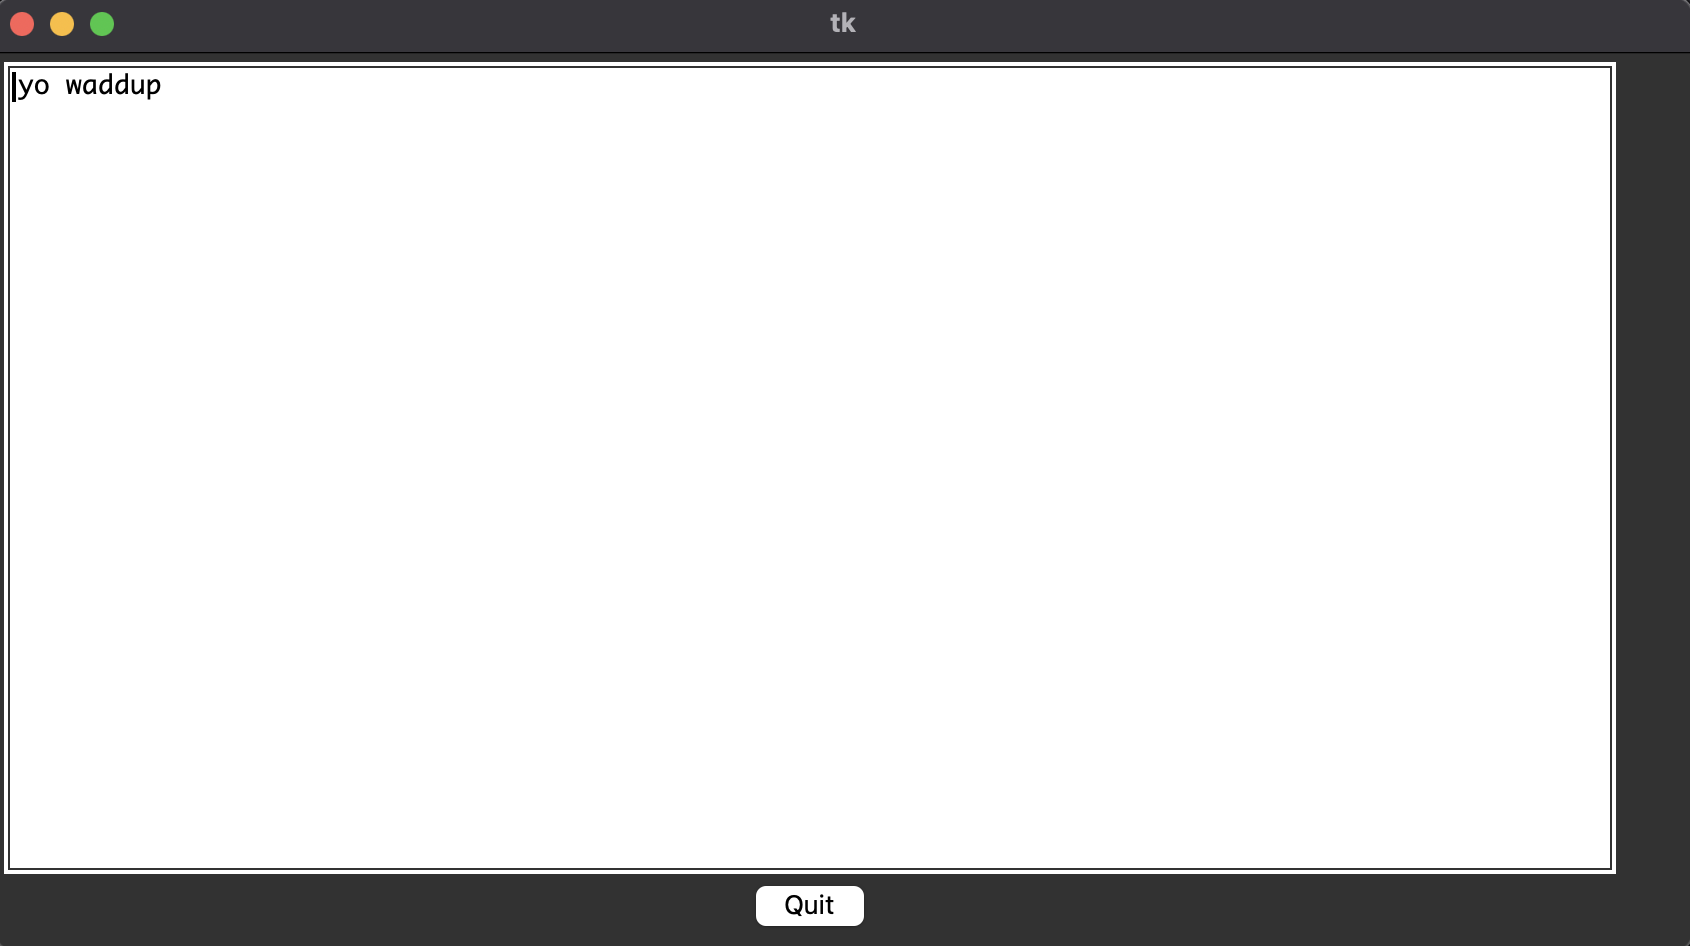
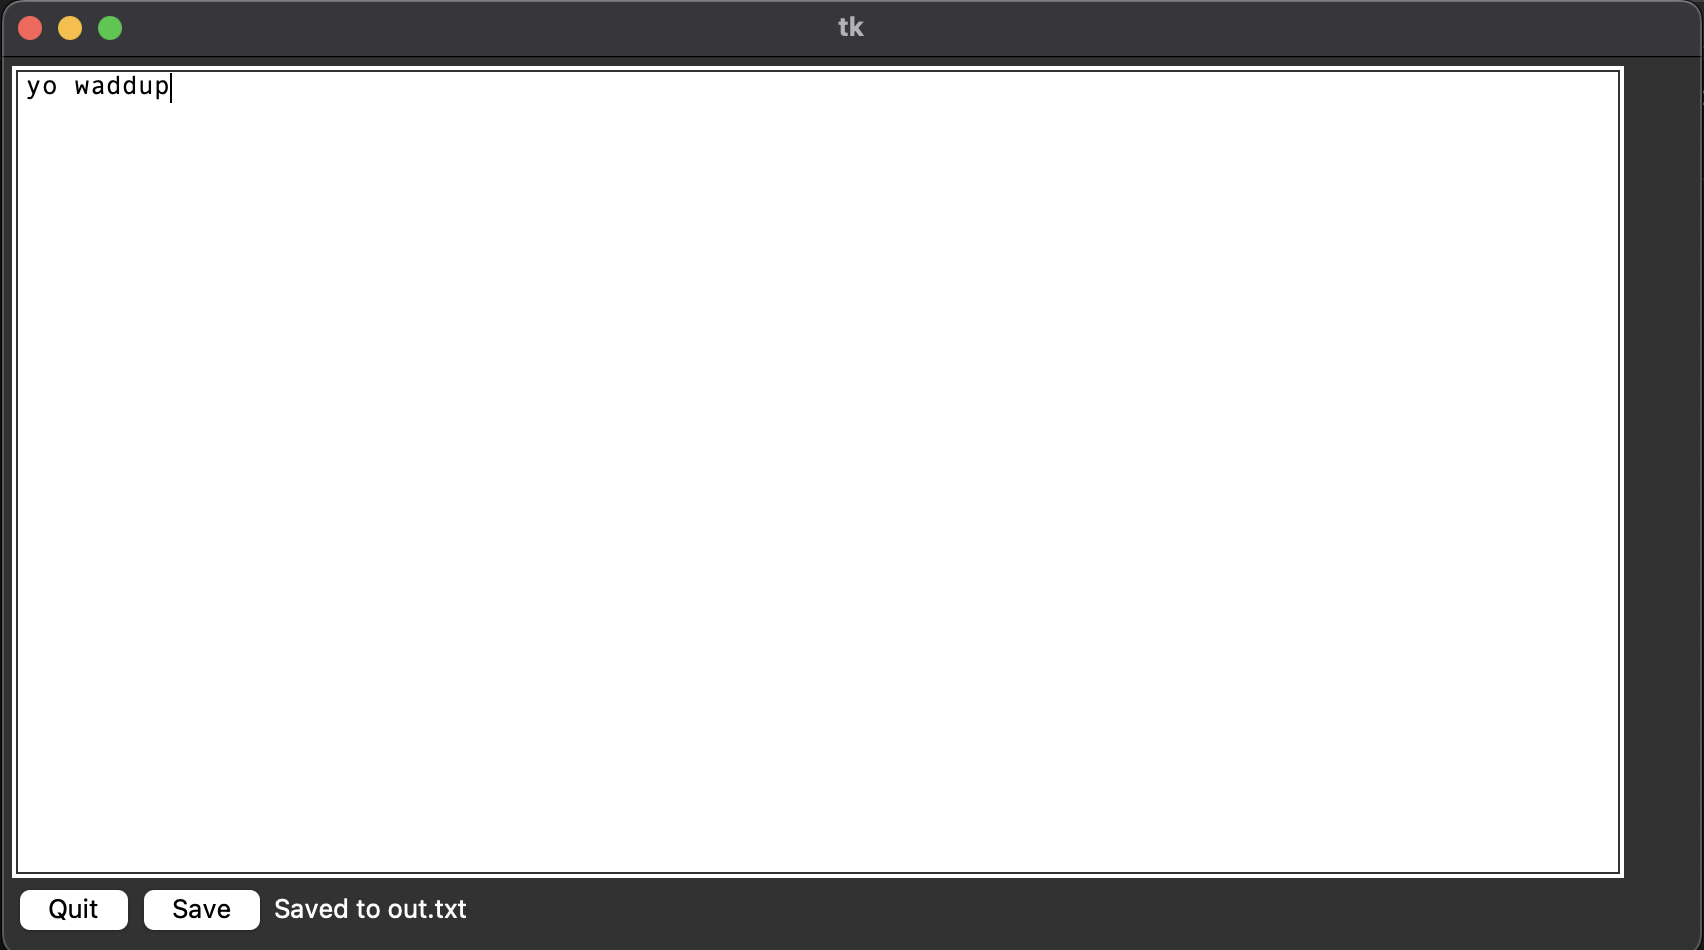
return / delete mechanics; primitive save

diff --git a/textedit.py b/textedit.py
@@ -7,37 +7,68 @@ import tkinter as tk
 class Cursor:
     def __init__(self):
         self.line: int = 0  # Line number
-        self.pos_on_line: int = 0  # Position on the line
-        self.pos: int = 0
+        self.pos: int = 0 # Position on the line
     
     def move_right(self):
-        # TODO: only move if self.pos is smaller than line length
-        self.pos += 1
-        self.pos_on_line += 1
+        if self.pos < lines[self.line].length:
+            self.pos += 1
+        elif self.line < len(lines) - 1: # wrap to next line
+            self.line += 1
+            self.pos = 0
     
     def move_left(self):
-        if self.pos > 0: self.pos -= 1
-        if self.pos_on_line > 0: self.pos_on_line -= 1
+        if self.pos > 0:
+            self.pos -= 1
+        elif self.line > 0: # wrap to previous line
+            self.line -= 1
+            self.pos = lines[self.line].length
     
     def move_up(self):
-        # TODO: line length checks
         if self.line > 0:
             self.line -= 1
+        
+        # clip line pos
+        if self.pos > lines[self.line].length:
+            self.pos = lines[self.line].length # TODO: store the actual 'desired' position
     
     def move_down(self):
         # TODO: line length checks
-        self.line += 1
+        if self.line < len(lines) - 1:
+            self.line += 1
     
     def teleport(self, line, pos):
         pass
 
+class Line:
+    def __init__(self):
+        self.content = []
+    
+    @property
+    def length(self):
+        return len(self.content)
+
+    @property
+    def is_empty(self):
+        return self.length == 0
+
+    def insert(self, i, char):
+        self.content.insert(i, char)
+    
+    def remove_at(self, i):
+        del self.content[i]
+    
+    def append(self, o):
+        # append another line to self
+        self.content += o.content
+
+    def to_str(self):
+        return ''.join(self.content)
+
+
 def move_handler(dir):
     move = getattr(Cursor, 'move_' + dir)
     move(cursor)
-    cursor_xpos = 7 + cursor.pos_on_line * 8
-    cursor_ypos = 3 + cursor.line * 15
-    canvas.coords(cursor_line, cursor_xpos, cursor_ypos, cursor_xpos, cursor_ypos + 15)
-    canvas.update()
+    update('cursor')
 
 def right_handler(event): move_handler('right')
 def left_handler(event): move_handler('left')
@@ -45,29 +76,51 @@ def up_handler(event): move_handler('up')
 def down_handler(event): move_handler('down')
 
 cursor = Cursor()
-content = []
+lines = [Line()]
 
 def key_handler(event):
-    global content, cursor
+    global cursor
     if len(event.char) == 0:
         return
-    content.insert(cursor.pos, event.char)
-    move_handler('right')
-    update_text()
+    lines[cursor.line].insert(cursor.pos, event.char)
+    cursor.move_right()
+    update('text', 'cursor')
 
 def backspace_handler(event):
-    global content, cursor
-    del content[cursor.pos - 1]
-    move_handler('left')
-    update_text()
+    global cursor
+    if cursor.pos == 0:
+        if cursor.line == 0: # no previous line to merge with
+            return
+
+        prev_line_len = lines[cursor.line - 1].length
+        if not lines[cursor.line].is_empty:
+            lines[cursor.line - 1].append(lines[cursor.line])
+        
+        del lines[cursor.line]
+        cursor.move_up()
+        cursor.pos = prev_line_len
+    else:
+        lines[cursor.line].remove_at(cursor.pos - 1)
+        cursor.move_left()
+    update('text', 'cursor')
 
 def return_handler(event):
-    global content
-    content.insert(cursor.pos, '\n')
-    cursor.pos += 1
-    cursor.pos_on_line = 0
-    move_handler('down')
-    update_text()
+    # insert first, then move down!
+    lines.insert(cursor.line + 1, Line())
+    cursor.move_down()
+    lines[cursor.line].content += lines[cursor.line - 1].content[cursor.pos:]
+    lines[cursor.line - 1].content = lines[cursor.line - 1].content[:cursor.pos]
+    cursor.pos = 0
+    update('text', 'cursor')
+
+def update(*what):
+    if 'text' in what:
+        canvas.itemconfigure(text_object, text='\n'.join([line.to_str() for line in lines]))
+    if 'cursor' in what:
+        cursor_xpos = 7 + cursor.pos * 8
+        cursor_ypos = 3 + cursor.line * 15
+        canvas.coords(cursor_line, cursor_xpos, cursor_ypos, cursor_xpos, cursor_ypos + 15)
+    canvas.update()
 
 root = tk.Tk()
 root.geometry("850x450")
@@ -77,10 +130,6 @@ frm.grid()
 
 canvas = tk.Canvas(frm, width=800, height=400, bg="white")
 text_object = canvas.create_text(7, 2, text='', fill="black", anchor="nw", font=("Andale Mono",))
-
-def update_text():
-    canvas.itemconfigure(text_object, text=''.join(content))
-    canvas.update()
 
 cursor_xpos = 7 + cursor.pos * 8
 cursor_ypos = 3 + cursor.line * 15
@@ -96,5 +145,13 @@ canvas.bind('<Return>', return_handler)
 canvas.pack()
 canvas.focus_set()
 
-tk.Button(frm, text="Quit", command=root.destroy).pack()
+def save_to(path):
+    with open(path, 'w') as f:
+        f.write('\n'.join([line.to_str() for line in lines]))
+    save_to_label.pack(side='left', fill='both')
+    save_to_label.after(3000, lambda: save_to_label.pack_forget())
+
+tk.Button(frm, text="Quit", command=root.destroy).pack(side='left', fill='both')
+tk.Button(frm, text="Save", command=lambda: save_to('out.txt')).pack(side='left', fill='both')
+save_to_label = tk.Label(frm, text="Saved to out.txt")
 root.mainloop()

diff --git a/features.md b/features.md
@@ -1,5 +1,6 @@
-To implement:
+## To implement:
 
+### Basic features
 - [ ] Rope data structure
 - [ ] properly handling line breaks
 - [ ] save and load
@@ -8,3 +9,9 @@ To implement:
 - [ ] marking
 - [ ] copy/paste
 - [ ] undo/redo
+- [ ] line numbers
+- [ ] easy line reordering
+
+### Fancy features
+- [ ] Syntax highlighting for some major languages
+- [ ] multiline editing
